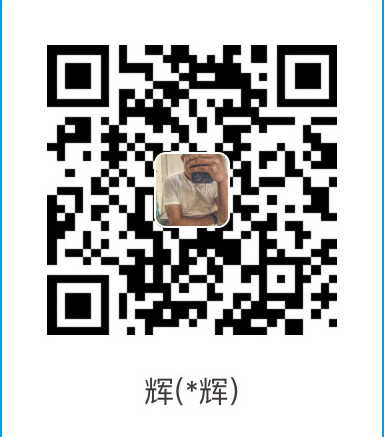
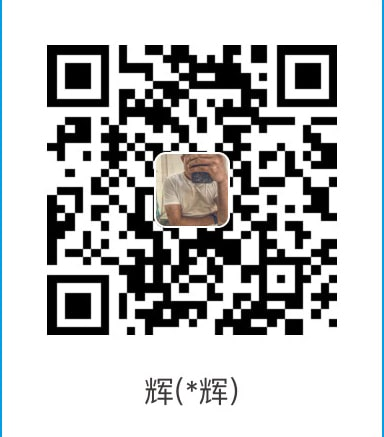
fix: 优化图片文件&&增加nginx博客

Changed region(s): [[0.9688, 0.0, 1.0, 1.0], [0.0, 0.0, 0.0312, 1.0]]

diff --git a/source/_posts/关于使用vue-antDesign的form总结.md b/source/_posts/关于使用vue-antDesign的form总结.md
@@ -1,0 +1,153 @@
+---
+title: 关于使用vue-antDesign的form总结
+date: 2019-04-09 23:06:48
+tags:
+- vue
+categories: 
+- web前端
+---
+写在最前
+
+由于公司的主要产品线SaaS系统的笨重与UI的不统一，导致现在SaaS系统越来越过于笨重。前端技术组长经过考虑在现有的项目中嵌套`iframe`来对于接下来的一些重构模块进行大改版。最新的选型时使用阿里的开源框架`vueAntDesign`来开发接下来的重构模块。于是有幸接触到这个框架，现在对于近期所遇到的关于`ant`的一些`form`的问题做出一些总结。
+
+# `Form` 表单
+
+> 具有数据收集、校验和提交功能的表单，包含复选框、单选框、输入框、下拉选择框等元素。
+
+<!-- more -->
+
+## 在`ant`中`form`有三种排列方式
+
+> 水平排列：标签和表单控件水平排列；（默认）
+> 垂直排列：标签和表单控件上下垂直排列；
+> 行内排列：表单项水平行内排列。
+
+## 使用
+
+> 1、如果使用 `Form.create` 处理表单使其具有自动收集数据并校验的功能，建议使用`jsx`。
+> 2、如果不是使用`Vue.use(Form)`形式注册的`Form`组件，你需要自行将$form挂载到Vue原型上。
+`Vue.prototype.$form = Form`
+
+已上是官方文档所描述的，你可以使用已上两种方式去初始化`form`。我使用的是前者。具体代码如下
+
+```如何使用form
+export default = {
+    data() {
+        return {
+            form: this.$form.createForm(this),
+            data: {
+                gender: 1
+            }
+        };
+    };
+}
+```
+然后再你的`template`代码中这么写
+
+```如何使用form
+<a-form :form="form">
+    <a-form-item>
+        <a-input>
+    </a-form-item>
+</a-form>
+```
+
+写到这里其实很多已经写过vue项目的小伙伴大概会直接在`data`上新建一个对象，然后来存储相关表单的数据。然后手动去判断每个`input`的`model`数值的规则了吧。但是在`ant`中校验必填与非必填有个很好用的方法那就是`form`对象的`validateFields`方法。这个方法中有个回调方法，回调方法中有两个参数。
+
+* `Function([fieldNames: string[]], [options: object], callback: Function(errors, values))`
+
+
+若`fieldNames`为空，则校验全部组件。一般我们使用到的就是直接调用第三个方法即可。其中`errors`代表校验规则是否通过，如果通过则不会有任何值，若不通过则会有值。至于`values`则返回你表单所有字段`model`值。你在校验通过之后直接可以来提交表单。
+
+重要的是在我们正常认知中都会手动给到你的`aInput`组件添加一个v-model属性，一旦你申明了`form`对象之后，就不需要再次在你的`aInout`组件中添加该属性了。来看看官方的提示吧。
+
+```
+`browser.js?e834:49 Warning: `getFieldDecorator` will override `value`, so please don't set `value and v-model` directly and use `setFieldsValue` to set it.`
+```
+
+大致意思就是`getFieldDecorator`方法会重写`v-model`的值，所欲不要设置`aInput`的`v-model`值或者`value`值用以`setFieldsValue`属性来设置该数值就好了。
+
+有了这个提示，其实我们的`aInput`组件中可以这么配置
+
+* v-decorator
+
+代码如下
+
+```如何使用form
+<a-form :form="form">
+    <a-form-item>
+        <a-input
+        v-decorator="[
+          'gender',
+          {rules: [{ required: true, message: 'Please select your gender!' }], initialValue: data.gender}
+        ]"
+        >
+    </a-form-item>
+</a-form>
+```
+正如我前文所写的，在`data`上挂一个`data`对象然后给他一个字段`gender`。利用`v-decorator`中的`initialValue`来设置`aInput`组件的默认值。其中`v-decorator`的第一项是`aInput的ID`。在后期获取`aInput`的数值都是通过它来获取。
+
+* `onValuesChange`
+
+当让我们在初始化值之后当表单提交的时候一定不想去提交初始值。那么可以再创建表单对象的时候。对第二个参数做出一些调整。代码如下
+
+```如何获取form中表单的数据
+export default = {
+    data() {
+        return {
+            form: this.$form.createForm(this, {option}),
+            data: {
+                gender: 1
+            }
+        };
+    };
+}
+```
+如上，在我们初始化表单对象的时候。有第二个`option`参数的。
+
+`option的`选项如下（节选具体请移步 [文档](https://vue.ant.design/components/form-cn/))
+
+- `props` 仅仅支持`Form.create({})(CustomizedForm)`的使用方式，父组件需要映射到表单项上的属性声明(和`vue`组件`props`一致) 
+类型`{}`
+
+- `mapPropsToFields` 把父组件的属性映射到表单项上（如：把 `Redux store` 中的值读出），需要对返回值中的表单域数据用 `Form.createFormField` 标记，如果使用$form.createForm创建收集器，你可以将任何数据映射到Field中，不受父组件约束 
+类型： `(props) => ({ [fieldName]: FormField { value } })`
+
+- `validateMessages` 默认校验信息，可用于把默认错误信息改为中文等，格式与 `newMessages` 返回值一致 
+类型： `Object { [nested.path]: String }`
+
+- `onFieldsChange` 当 `Form.Item` 子节点的值发生改变时触发，可以把对应的值转存到 `Redux store`
+类型：`Function(props, fields)`
+
+- `onValuesChange` 任一表单域的值发生改变时的回调 
+类型：`(props, values) => void`
+
+如上解释，我们可以使用`onValuesChange`配置项来将变更的数据绑定到我们的`data`上。代码如下
+
+```如何获取form中表单的数据
+export default = {
+    data() {
+        return {
+            form: this.$form.createForm(this, {
+                onValuesChange: this.dataChange
+            }),
+            data: {
+                gender: 1
+            }
+        };
+    },
+    methods() {
+        dataChange(props, fields) {
+            Object.assign(this.data, fields);
+        }
+    }
+}
+```
+* 反显数据利用this.form
+
+this.form的方法很多。此处我只介绍setFields方法。
+
+- setFields 设置一组输入控件的值与错误状态。 Function({ [fieldName]: { value: any, errors: [Error] } })
+
+可以使用该方法来回显数据。具体this.form的详细解释清移步 [文档](https://vue.ant.design/components/form-cn/)
+

diff --git a/source/_posts/常用nginx命令总结-持续更新.md b/source/_posts/常用nginx命令总结-持续更新.md
@@ -1,0 +1,90 @@
+---
+title: 常用nginx命令总结(持续更新)
+date: 2019-05-27 22:54:14
+tags:
+- Nginx
+categories: 
+- 后端开发
+---
+
+之前一直都是在我的`github`上访问我的博客，使用的是`hexo`工具来搭建的。可是毕竟是在国内，所以访问博客地址的时候回超级慢。正好在去年双十二在阿里云买了自己的服务器，于是乎就想着在我的服务器上去启动一个Nginx来访问，提高速度。我的服务器是默认安装的`Ubantu`，于是我就开始了在`Ubantu`上的折腾。
+
+# 安装Nginx
+
+登陆你的服务器之后，直接使用apt-get安装nginx。输入以下命令
+```
+sudo apt-get install nginx
+```
+安装完成之后，需要启动下。（直接输入``nginx）默认是启动了80端口。在阿里云后台设置一个对外的端口区间。可以直接在你的本地浏览器输入IP + 端口号就可以访问了。如果出现`command not found`可以尝试自己在`/usr/local/bin`下配置软连接（不知道如何添加软连接的可以自行谷歌）
+
+# Linux下关于Nginx目录解释
+
+当你安装完成之后，可以尝试在终端中输入`whereis nginx`你会得到如下图所示的两个目录
+
+![关于nginx的目录](/images/1559027311889.jpg)
+
+其中`/usr/sbin/nginx`目录为nginx的主程序
+其中`/etc/nginx`目录存放nginx的配置文件
+其中`/usr/share/nginx`目录存放静态文件
+
+## 主要讲解关于配置文件目录下的结构
+
+如下图点开`/etc/nginx`下目录结构如下
+
+![关于nginx的目录](/images/WX20190528-151623.png)
+*紫色为文件夹*
+
+至此可以将`sites-available`文件夹下的文件复制至`conf.d`文件夹，然后更改其文件名称为`nginx.conf`。至此，你就可以去尝试启动Nginx了
+
+
+# 常用Nginx命令列表
+
+## 启动
+
+```
+nginx
+```
+
+## 测试配置文件是否有语法错误
+
+```
+nginx -t
+```
+
+## 重启Nginx
+
+```
+nginx -s reopen
+```
+
+## 重新加载Nginx配置文件然后再重启
+
+```
+nginx -s reload
+```
+
+## 强制停止Nginx
+
+```
+nginx -s stop
+```
+
+## 优雅的停止Nginx（处理完成请求再停止）
+
+```
+nginx -s quit
+```
+
+## 指定配置文件启动Nginx
+
+```
+nginx -c </path/to/config>
+```
+
+eg:
+```
+nginx -c /etc/nginx/conf.d/nginx.conf
+
+// 如果不确定自己的配置文件语法是否正确可以尝试运行监测配置文件
+nginx -t -c /etc/nginx/conf.d/nginx.conf
+```

diff --git a/themes/landscape/README.md b/themes/landscape/README.md
@@ -49,7 +49,7 @@ widgets:
 
 # Miscellaneous
 google_analytics:
-favicon: /favicon.png
+favicon: /favicon.ico
 twitter:
 google_plus:
 ```
